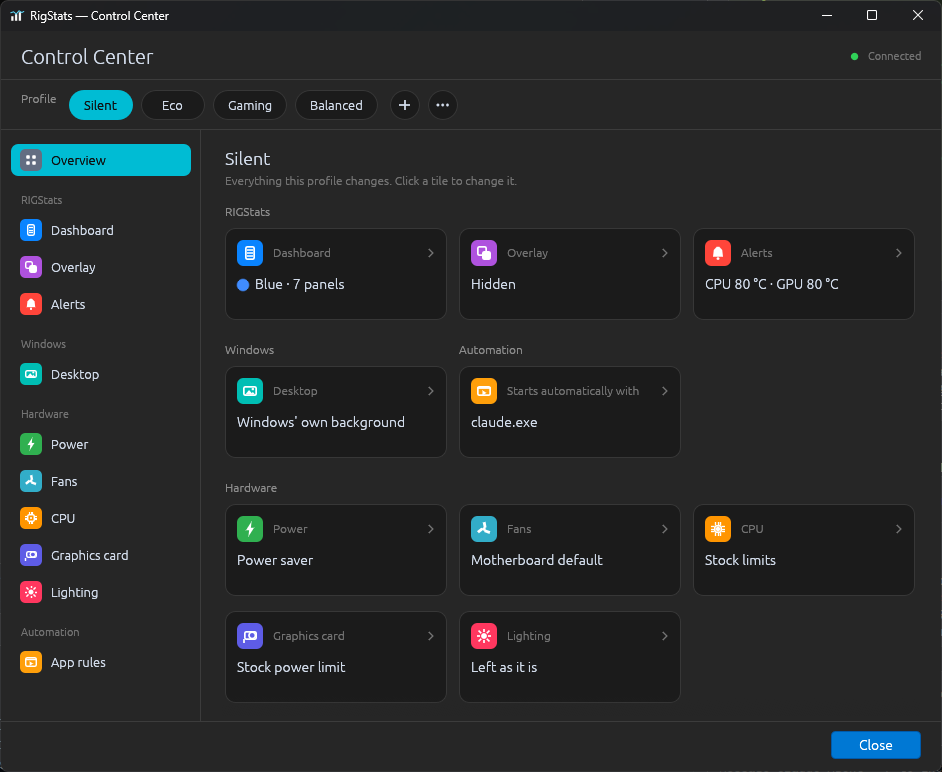
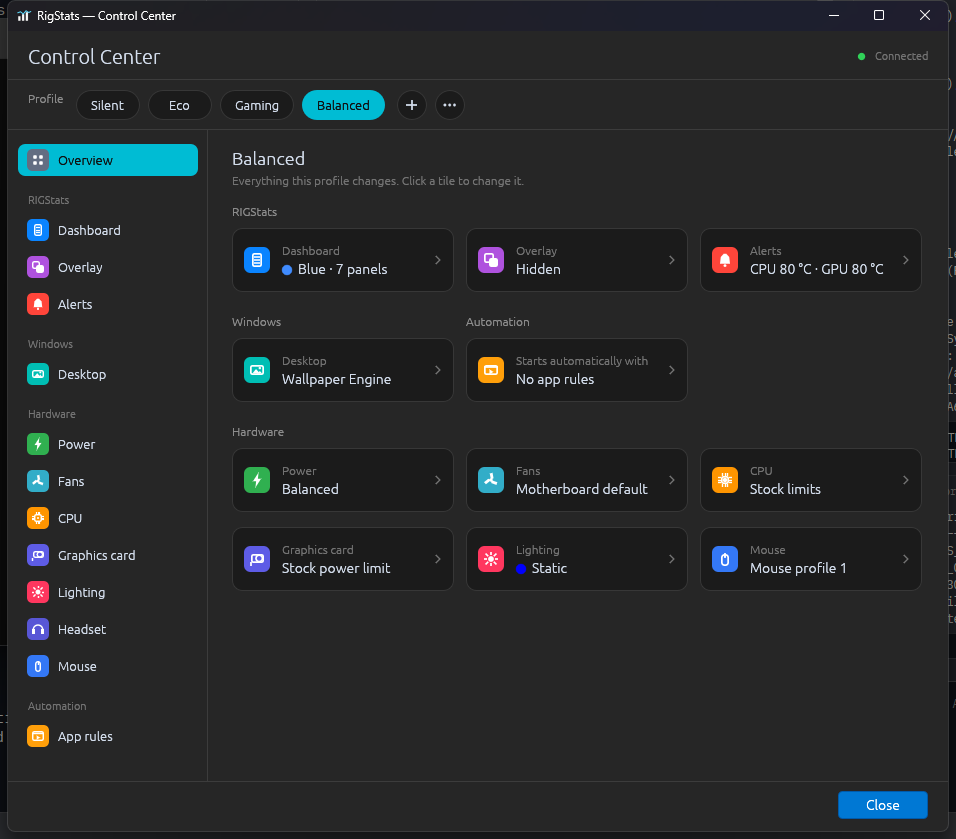
feat(control): a compact Overview with a Mouse tile, sidebar fits (#441)
Overview tiles are 64 px tall (icon left, title and value beside it,
a cut value in full on hover), so a whole profile fits on one screen
with room to spare. A Mouse tile shows the onboard mouse profile the
profile uses, or the domain's problem — from the profile only. No
Headset tile: its settings are the same in every profile. The Control
Center opens 60 px taller so the sidebar fits with Headset and Mouse.

Closes #440

diff --git a/website/index.html b/website/index.html
@@ -360,7 +360,7 @@
       <div class="cc-rows">
         <div class="cc-row">
           <div class="cc-shot screen-wrap">
-            <img src="images/control-center-overview.png" alt="Control Center, Overview: the profile bar with Silent, Eco, Gaming and Balanced, a sidebar of pages, and a tile per page summarising what the profile does — dashboard look, overlay, alerts, desktop background, app rules, power plan, fans, CPU, graphics card and lighting" class="hero-img" loading="lazy">
+            <img src="images/control-center-overview.png" alt="Control Center, Overview: the profile bar with Silent, Eco, Gaming and Balanced, a sidebar of pages, and a tile per page summarising what the profile does — dashboard look, overlay, alerts, desktop background, app rules, power plan, fans, CPU, graphics card, lighting and the mouse profile" class="hero-img" loading="lazy">
           </div>
           <div class="cc-text">
             <h3>Profiles</h3>

diff --git a/src-egui/src/windows/ui_kit.rs b/src-egui/src/windows/ui_kit.rs
@@ -1075,8 +1075,13 @@ pub fn icon_button(ui: &mut Ui, dc: &DialogColors, icon: Icon, tooltip: &str) ->
     resp.on_hover_text(tooltip)
 }
 
-/// A clickable summary tile (the Control Center's overview): icon, title,
-/// value (up to two lines) and an optional colour dot.
+/// Height of a summary [`tile`].
+pub const TILE_H: f32 = 64.0;
+
+/// A clickable summary tile (the Control Center's overview, #440): the
+/// icon on the left, title and value beside it on one line each, and an
+/// optional colour dot; a value cut short shows in full on hover. Compact,
+/// so a whole profile fits on one screen.
 pub fn tile(
     ui: &mut Ui,
     dc: &DialogColors,
@@ -1086,7 +1091,7 @@ pub fn tile(
     value: &str,
     dot: Option<Color32>,
 ) -> Response {
-    let (rect, resp) = ui.allocate_exact_size(size, Sense::click());
+    let (rect, mut resp) = ui.allocate_exact_size(size, Sense::click());
     if ui.is_rect_visible(rect) {
         let p = ui.painter();
         let fill = if resp.hovered() { dc.inner } else { dc.card };
@@ -1103,39 +1108,46 @@ pub fn tile(
             StrokeKind::Inside,
         );
         let pad = 12.0;
-        let badge = Rect::from_min_size(rect.min + vec2(pad, pad), vec2(26.0, 26.0));
+        let badge = Rect::from_min_size(
+            pos2(rect.left() + pad, rect.center().y - 13.0),
+            vec2(26.0, 26.0),
+        );
         icon_badge(p, badge, icon);
+        let chevron_x = rect.right() - pad - 4.0;
         paint_glyph(
             p,
-            Rect::from_center_size(
-                pos2(rect.right() - pad - 4.0, badge.center().y),
-                vec2(12.0, 12.0),
-            ),
+            Rect::from_center_size(pos2(chevron_x, rect.center().y), vec2(12.0, 12.0)),
             Icon::Chevron,
             dc.muted,
         );
+        let left = badge.right() + 12.0;
+        let right = chevron_x - 12.0;
         p.text(
-            pos2(badge.right() + 10.0, badge.center().y),
-            egui::Align2::LEFT_CENTER,
+            pos2(left, rect.center().y - 2.0),
+            egui::Align2::LEFT_BOTTOM,
             title,
             FontId::proportional(12.0),
             dc.muted,
         );
-        let mut x = rect.left() + pad;
-        let y = badge.bottom() + 10.0;
+        let mut x = left;
+        let y = rect.center().y + 1.0;
         if let Some(c) = dot {
-            p.circle_filled(pos2(x + 6.0, y + 9.0), 6.0, c);
-            x += 18.0;
+            p.circle_filled(pos2(x + 5.0, y + 9.0), 5.0, c);
+            x += 16.0;
         }
         let mut job = LayoutJob::single_section(
             value.to_owned(),
             TextFormat::simple(FontId::proportional(14.0), dc.title),
         );
-        job.wrap.max_width = rect.right() - pad - x;
-        job.wrap.max_rows = 2;
+        job.wrap.max_width = right - x;
+        job.wrap.max_rows = 1;
         job.wrap.overflow_character = Some('…');
         let galley = p.layout_job(job);
+        let elided = galley.elided;
         p.galley(pos2(x, y), galley, dc.title);
+        if elided {
+            resp = resp.on_hover_text(value);
+        }
     }
     if resp.hovered() {
         ui.ctx().set_cursor_icon(egui::CursorIcon::PointingHand);

diff --git a/src-egui/src/windows/control.rs b/src-egui/src/windows/control.rs
@@ -3146,6 +3146,20 @@ fn overview_page(
                 lighting.1,
             ),
         },
+        {
+            // From the profile only — the Overview never asks the mouse.
+            let chosen = profile
+                .part
+                .mouse
+                .as_ref()
+                .and_then(|m| m.profile)
+                .map_or_else(
+                    || "Left as it is".to_owned(),
+                    |p| format!("Mouse profile {p}"),
+                );
+            let (summary, dot) = tile_summary(control.domain_problem("mouse"), dc, chosen);
+            (Page::Mouse, Icon::Mouse, "Mouse", summary, dot)
+        },
     ];
     let starts_with: Vec<&str> = rules
         .iter()
@@ -3165,7 +3179,7 @@ fn overview_page(
     )];
     let gap = 12.0;
     let tile_w = ((ui.available_width() - 2.0 * gap) / 3.0).floor();
-    let size = egui::vec2(tile_w, 92.0);
+    let size = egui::vec2(tile_w, ui_kit::TILE_H);
     // Sections side by side when they fit in one row of three tiles:
     // Windows and Automation hold a tile each, so they share a row.
     let lines: [&[(&str, &[OverviewTile])]; 3] = [

diff --git a/src-egui/src/app/dialogs.rs b/src-egui/src/app/dialogs.rs
@@ -15,7 +15,7 @@ use std::sync::Arc;
 
 /// Settings and the Control Center: a sidebar of pages beside grouped rows.
 const SETTINGS_SIZE: [f32; 2] = [760.0, 620.0];
-const CONTROL_SIZE: [f32; 2] = [940.0, 740.0];
+const CONTROL_SIZE: [f32; 2] = [940.0, 800.0];
 
 impl RigStatsApp {
     /// Shared tail of every dialog's per-frame render (Settings, About,

diff --git a/src-egui/CLAUDE.md b/src-egui/CLAUDE.md
@@ -32,7 +32,7 @@ Module catalogue for `src-egui/src/`. The dialog design and lifecycle contract i
 - **`panels/`** — one file per panel; each `draw()` accepts `&AppTheme` and returns `egui::Rect`. `gpu_processes.rs` ("GPU APPS") renders `PollStats.gpu_processes` — top apps by GPU %, attributed to a physical adapter when >1 GPU is active; `peripherals.rs` ("PERIPHERALS") renders `PollStats.peripherals` — battery per wireless device from the sidecar (ROG #290, Bluetooth #291, Logitech charging #349), coloured by the Battery panel's thresholds; `connected: false` rows are greyed ("Not connected" in the tray card) and don't alert (#351). A new panel is registered in `panels/mod.rs`, `dashboard.rs`, `app/floating.rs`, `tray.rs` (`panel_label`) and `windows/settings.rs` (`ALL_PANELS`)
 - **`panels/header.rs`** status row — the profile chip (`chip_label`) and, while Windows has a microphone, its state as the tray's glyph (green on / red muted; a click sets the `"toggle_microphone"` temp flag the main app consumes, #425; `PollStats::microphone` is polled in `poll.rs` so the wallpaper host shows it too). `chip_label`: the control pipe's active profile in the main app, else `PollStats.service_profile` from the telemetry (the wallpaper host has no control pipe, #302); the session CSV's profile column falls back the same way in `poll.rs`
 - **`brand.rs`** — embedded brand logo PNGs; `rig_logo`, `cpu_logo`, `gpu_logo`
-- **`windows/`** — every dialog is built from `ui_kit.rs` (design system; contract and the profile-vs-app-wide rule in `src/windows/CLAUDE.md`). `settings.rs` — app-wide settings (General, Display, Overlay placement, Notifications). `control.rs` — Control Center: profile bar (chips, + copy, ⋯ rename/delete/reset) over a sidebar of the profile's pages: Overview tiles, Dashboard/Overlay/Alerts and Desktop (the desktop background, #306) (`profile_look.rs`, #305 — `LookEditor`: live preview, Save keeps it via `store_active_look`, Revert/Close puts it back; a profile switch hands the outgoing profile its pre-edit look), Power, Fans (curve editor; fan channels mapped to fans only by measured identify results, never by name), CPU, Graphics card (limit changes go through `preview` with auto-revert; red "Reverted after a restart" banner when the boot-crash guard tripped), Lighting (live preview of only what changed, swatches, desk lamp, Hue), Headset (#428: sidetone and noise reduction kept in the headset, for every profile, sent at once — "Sent to the headset"; shown while a lighting device reports `headset_settings`; read when the page opens), Mouse (#431: the onboard profile the RIGStats profile uses, saved at once in the profile; DPI as level chips with one logarithmic slider for the level in use, performance, buttons (#433, #435: the mouse drawn from the top by `windows/mouse_drawing.rs` with each choice at its button and a leader line, hover lights the button; the DPI button as a row with its place; "Default (…)" names its own function, `mouse_button_help`) and energy of the onboard profile in use (the mouse's own low-battery warning; RIGStats' notifications are a row linking to Alerts) — read again whenever the Control Center profile changes (`mice_read_for`), sent at once, sliders once let go (`mouse_unsent`)). `windows::OpenRequest` links the two windows; `dev_open_request` (`RIGSTATS_OPEN`, debug builds) opens one at start-up. Also `about.rs`, `status.rs`, `updater.rs`, `history.rs`. Lifecycle contract: new dialogs must use `DialogReveal` + `RigStatsApp::finish_dialog_frame`
+- **`windows/`** — every dialog is built from `ui_kit.rs` (design system; contract and the profile-vs-app-wide rule in `src/windows/CLAUDE.md`). `settings.rs` — app-wide settings (General, Display, Overlay placement, Notifications). `control.rs` — Control Center: profile bar (chips, + copy, ⋯ rename/delete/reset) over a sidebar of the profile's pages: Overview tiles (a compact tile per page the profile changes, the Mouse tile included — no Headset tile, its settings are the same in every profile, #440), Dashboard/Overlay/Alerts and Desktop (the desktop background, #306) (`profile_look.rs`, #305 — `LookEditor`: live preview, Save keeps it via `store_active_look`, Revert/Close puts it back; a profile switch hands the outgoing profile its pre-edit look), Power, Fans (curve editor; fan channels mapped to fans only by measured identify results, never by name), CPU, Graphics card (limit changes go through `preview` with auto-revert; red "Reverted after a restart" banner when the boot-crash guard tripped), Lighting (live preview of only what changed, swatches, desk lamp, Hue), Headset (#428: sidetone and noise reduction kept in the headset, for every profile, sent at once — "Sent to the headset"; shown while a lighting device reports `headset_settings`; read when the page opens), Mouse (#431: the onboard profile the RIGStats profile uses, saved at once in the profile; DPI as level chips with one logarithmic slider for the level in use, performance, buttons (#433, #435: the mouse drawn from the top by `windows/mouse_drawing.rs` with each choice at its button and a leader line, hover lights the button; the DPI button as a row with its place; "Default (…)" names its own function, `mouse_button_help`) and energy of the onboard profile in use (the mouse's own low-battery warning; RIGStats' notifications are a row linking to Alerts) — read again whenever the Control Center profile changes (`mice_read_for`), sent at once, sliders once let go (`mouse_unsent`)). `windows::OpenRequest` links the two windows; `dev_open_request` (`RIGSTATS_OPEN`, debug builds) opens one at start-up. Also `about.rs`, `status.rs`, `updater.rs`, `history.rs`. Lifecycle contract: new dialogs must use `DialogReveal` + `RigStatsApp::finish_dialog_frame`
 - **`win32_wallpaper.rs`** — `find_wallpaper_workerw`, `attach`/`detach`, `process_alive`; used only by the wallpaper host
 - **`win32_behind.rs`** — `apply_behind`/`prepare_for_drag`/`keep_behind`: Always-Behind window layer support
 - **`win32_dark_mode.rs`** — sets dark mode for OS-drawn tray menu at startup; `apply_titlebar_theme` for dialog title bars

diff --git a/docs/architecture.md b/docs/architecture.md
@@ -261,7 +261,7 @@ rig-dashboard/
 | `win32_behind.rs` | Always-Behind window layer: `apply_behind`, `prepare_for_drag` (called before a floating-panel drag so `SC_MOVE` works under `WS_EX_NOACTIVATE`), `keep_behind` |
 | `single_instance.rs` | `ensure_single_instance` — named kernel mutex (`CreateMutexW`) acquired first thing in `main()`; if already held, `FindWindowW` + `SetForegroundWindow` focuses the running instance's window and this process exits |
 | `panels/` | One file per panel — each exports `draw(ui, stats, opacity, th, sc, ...)` returning `egui::Rect`. Panels: `cpu`, `gpu`, `ram`, `net`, `disk`, `motherboard`, `process`, `gpu_processes`, `power`, `battery`, `clock`, `header` |
-| `windows/` | Secondary windows, all built from `ui_kit.rs` (the design system: hero, sidebar `nav_item`s with tinted `Icon`s, `page_header`, `group`s of `row`s, `toggle`, `segmented`, `dropdown`, `slider_pct`, `swatches`, `ordered_rows`, `chip`, `tile`; contract in `src-egui/src/windows/CLAUDE.md`). `settings.rs` — app-wide settings: General, Display, Overlay (placement), Notifications pages. `control.rs` — the Control Center: a profile bar (chips, + copy, ⋯ rename/delete/reset) over a sidebar of the profile's pages — Overview (a tile per page summarising what the profile does), Dashboard / Overlay / Alerts (`profile_look.rs`, #305: accent colour, opacity, panels and order, overlay content, thresholds — live preview, Save/Revert in the footer) and the hardware pages Power (Windows power plan), Fans (curve editor, identify, "Automatic (BIOS)" / "Custom curve"), CPU (PPT/TDC/EDC, Eco presets, Curve Optimizer), Graphics card (power limit per adapter), Lighting (effect, colour dots, desk lamp, the devices — a wireless one with its connection and battery from the telemetry, matched by id — and Philips Hue #215; live preview of only what changed), Headset (#428: sidetone and noise reduction, kept in the headset, sent at once), Mouse (#431: the onboard profile the RIGStats profile uses, and that profile's DPI levels, performance, button bindings on a drawing of the mouse (`mouse_drawing.rs`, #433/#435) and energy, kept in the mouse, sent at once), and in an Automation section the App rules page (`rules_page.rs`, #307: a status line, a row per rule — the program's icon and own name (`app_icons.rs`: `SHGetFileInfo` icon, `FileDescription` from its version info, else the file name without .exe), profile, "Runs / In front", Remove — and an Add form: pick a running program, Choose… one with the Open dialog (it needn't be running), or type its file name); the Overview shows which programs start each profile; limit changes go Try → Keep/Undo. The two windows link to each other where a setting lives in the other (`windows::OpenRequest`, handled in `app/tray_actions.rs`); debug builds open either at start-up with `RIGSTATS_OPEN=control:<page>` / `settings:<page>`. Also `about.rs`, `status.rs`, `updater.rs`, `history.rs`. The Control Center opens from the tray, the header's profile chip, or a fan name in the Motherboard panel (the curve of the channel that drives that fan, as measured by identify — never matched by name) |
+| `windows/` | Secondary windows, all built from `ui_kit.rs` (the design system: hero, sidebar `nav_item`s with tinted `Icon`s, `page_header`, `group`s of `row`s, `toggle`, `segmented`, `dropdown`, `slider_pct`, `swatches`, `ordered_rows`, `chip`, `tile`; contract in `src-egui/src/windows/CLAUDE.md`). `settings.rs` — app-wide settings: General, Display, Overlay (placement), Notifications pages. `control.rs` — the Control Center: a profile bar (chips, + copy, ⋯ rename/delete/reset) over a sidebar of the profile's pages — Overview (a compact tile per page summarising what the profile does, the mouse's onboard profile included, #440), Dashboard / Overlay / Alerts (`profile_look.rs`, #305: accent colour, opacity, panels and order, overlay content, thresholds — live preview, Save/Revert in the footer) and the hardware pages Power (Windows power plan), Fans (curve editor, identify, "Automatic (BIOS)" / "Custom curve"), CPU (PPT/TDC/EDC, Eco presets, Curve Optimizer), Graphics card (power limit per adapter), Lighting (effect, colour dots, desk lamp, the devices — a wireless one with its connection and battery from the telemetry, matched by id — and Philips Hue #215; live preview of only what changed), Headset (#428: sidetone and noise reduction, kept in the headset, sent at once), Mouse (#431: the onboard profile the RIGStats profile uses, and that profile's DPI levels, performance, button bindings on a drawing of the mouse (`mouse_drawing.rs`, #433/#435) and energy, kept in the mouse, sent at once), and in an Automation section the App rules page (`rules_page.rs`, #307: a status line, a row per rule — the program's icon and own name (`app_icons.rs`: `SHGetFileInfo` icon, `FileDescription` from its version info, else the file name without .exe), profile, "Runs / In front", Remove — and an Add form: pick a running program, Choose… one with the Open dialog (it needn't be running), or type its file name); the Overview shows which programs start each profile; limit changes go Try → Keep/Undo. The two windows link to each other where a setting lives in the other (`windows::OpenRequest`, handled in `app/tray_actions.rs`); debug builds open either at start-up with `RIGSTATS_OPEN=control:<page>` / `settings:<page>`. Also `about.rs`, `status.rs`, `updater.rs`, `history.rs`. The Control Center opens from the tray, the header's profile chip, or a fan name in the Motherboard panel (the curve of the channel that drives that fan, as measured by identify — never matched by name) |
 
 ### Module details
 

diff --git a/src-egui/src/windows/CLAUDE.md b/src-egui/src/windows/CLAUDE.md
@@ -67,7 +67,7 @@ The Control Center adds a profile bar under the hero (`ui_kit::chip` per profile
 | Show/hide + order of a list | `ordered_rows` (switch + arrows; a shown item returns to its natural place) |
 | Warn/crit number | `threshold_field` |
 | Navigate | `nav_item` with an `Icon` (tinted badge, one colour per kind of setting) |
-| A summary that opens a page | `tile` (a failed domain: the problem's title, `dot` = `severity_color`) |
+| A summary that opens a page | `tile` — `TILE_H` (64 px) tall, title and value on one line each, a cut value in full on hover, so a whole profile fits on one screen (#440); a failed domain: the problem's title, `dot` = `severity_color` |
 | A problem (something failed, with what to do) | `notice` — never a hand-made frame or coloured label |
 | A picture (desktop background) | `Group::row_picture` — a 16:9 preview leading the row, cropped to fill; previews from `app_icons::PictureCache` |
 | Which part of a device a setting is for (mouse buttons) | a drawing in a `Group::block` with the choices at their parts and leader lines (`mouse_drawing.rs`) — our own outline, never a vendor's artwork |

diff --git a/release-highlights.md b/release-highlights.md
@@ -22,3 +22,4 @@ comment is ignored. See "Release routine" in docs/release.md.
 - **Rebind your mouse buttons** — on a drawing of the mouse on the Mouse page, per mouse profile, so you see which button is which: any button can become left, right or middle click, double click, back, forward, scroll up or down, be disabled, or go back to its default.
 - **No low-battery alert while a laptop is charging** — the "Battery charge below…" alert now waits until the laptop is actually discharging, like the wireless devices' alerts already did.
 - **Help confirm your mouse or headset** — a diagnostics ZIP (Status → Collect diagnostics) now shows what your ROG mouse or headset answered and how RIGStats read it, so a model marked "not yet verified" can be confirmed from your report.
+- **The whole profile at a glance** — the Control Center's Overview is more compact and fits on one screen, now with a tile for the mouse profile each profile uses; the sidebar fits without scrolling.

diff --git a/README.md b/README.md
@@ -31,7 +31,7 @@ For the full product overview, screenshots, and download, see [rigstats.app](htt
 <p align="center">
   <img src="assets/rigStats.png" width="220" alt="The RIGStats dashboard on a portrait secondary display: CPU, GPU, RAM, network and disk panels">
   &nbsp;
-  <img src="assets/control-center-overview.png" width="560" alt="The Control Center's Overview: a profile bar, a sidebar of pages, and a tile per page summarising what the profile does — dashboard look, overlay, alerts, desktop, app rules, power, fans, CPU, graphics card and lighting">
+  <img src="assets/control-center-overview.png" width="560" alt="The Control Center's Overview: a profile bar, a sidebar of pages, and a tile per page summarising what the profile does — dashboard look, overlay, alerts, desktop, app rules, power, fans, CPU, graphics card, lighting and mouse">
 </p>
 
 ## Installation
